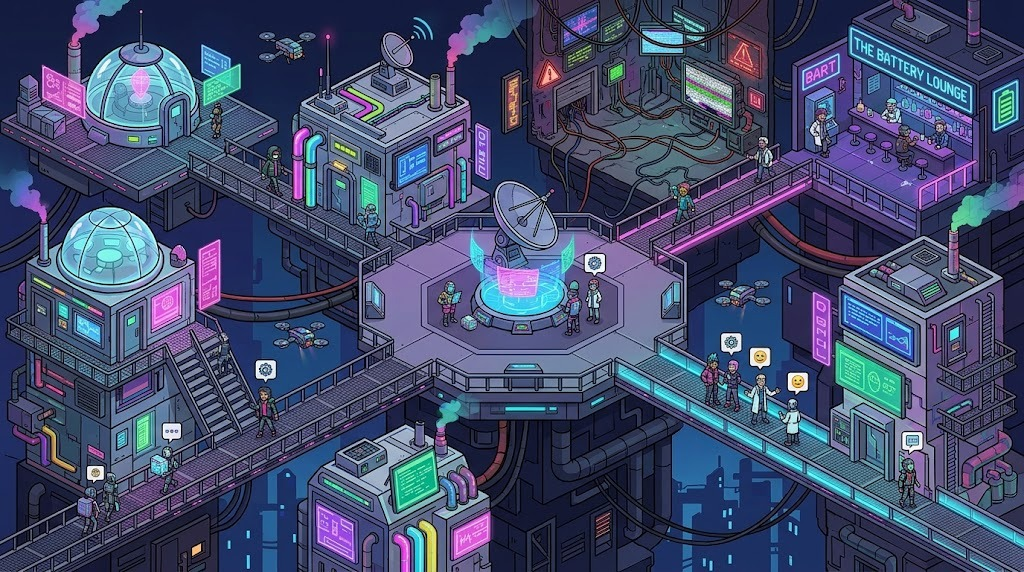
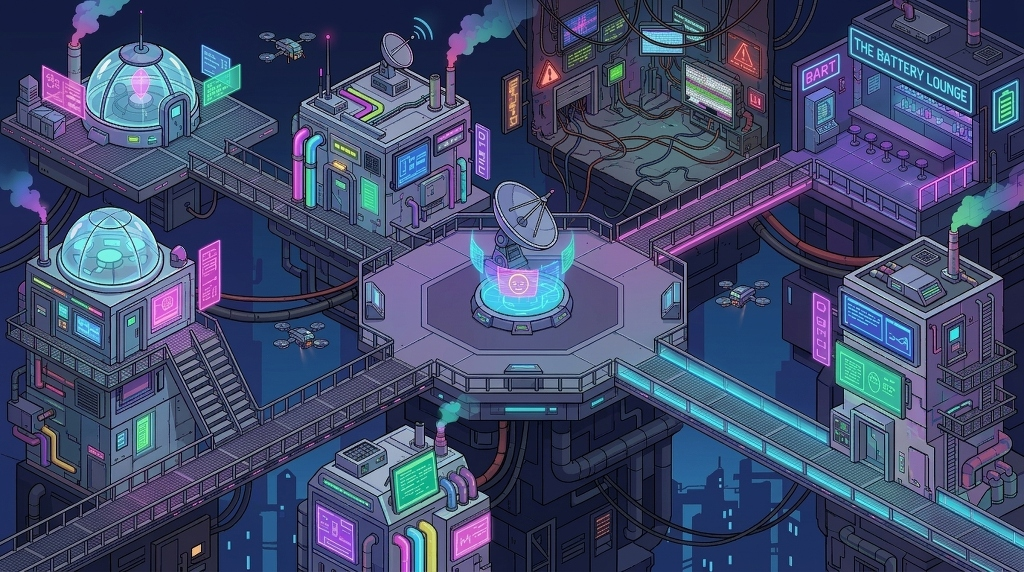
feat(agents): remover figuras estaticas da arte mestra e ativar populacao viva autonoma (T-4.6)

diff --git a/client/src/lib/game/agents/AgentManager.ts b/client/src/lib/game/agents/AgentManager.ts
@@ -4,25 +4,64 @@ import { DroneEntity } from './DroneEntity';
 import { ProceduralSpriteGenerator } from './spritesheetGenerator';
 import { GridPathfinder } from '../pathfinding';
 
+interface WaypointHub {
+  name: string;
+  x: number;
+  y: number;
+}
+
+const HUBS: WaypointHub[] = [
+  { name: 'The Nexus', x: 0, y: 0 },
+  { name: 'The Battery Lounge', x: -11, y: 0 },
+  { name: 'Pod Notex Core', x: 11, y: 0 },
+  { name: 'Glitch Alleys', x: 0, y: -10 },
+  { name: 'Expansion Bay', x: 0, y: 10 },
+  { name: 'Passarela Leste', x: 6, y: 0 },
+  { name: 'Passarela Oeste', x: -6, y: 0 },
+];
+
+const AMBIENT_PHRASES = [
+  '☕ Partiu tomar algo no Battery Lounge!',
+  '⚡ Bateria em 100%!',
+  '💻 Compilando kernel Rust assíncrono...',
+  '⚙ Pipeline CI/CD totalmente verde!',
+  '😊 Salve! O Grid está a todo vapor hoje!',
+  '📦 Entregando pacote de dados ao Nexus!',
+  '⚠ Monitorando anomalias na rede...',
+  '🍸 Experimentando o novo drink sintético!',
+  '🔍 Auditando contratos de execução...',
+  '🌐 Sincronizado com o Bridge Hub!',
+];
+
 /**
- * AgentManager: Orquestrador da população de agentes na metrópole.
- * Gerencia ciclo de vida, despacho, seleção e reações espaciais autônomas.
+ * AgentManager: Orquestrador da população viva de agentes na metrópole.
+ * Gerencia a deambulação autônoma, conversas reativas, transporte de dados
+ * e seleção no Modo Diretor.
  */
 export class AgentManager {
   private scene: Phaser.Scene;
+  private pathfinder!: GridPathfinder;
   private agents: Map<string, AgentEntity> = new Map();
   private selectedAgentId: string | null = null;
   private drone!: DroneEntity;
+  private ambientTimer = 0;
 
-  constructor(scene: Phaser.Scene) {
+  constructor(scene: Phaser.Scene, pathfinder?: GridPathfinder) {
     this.scene = scene;
+    if (pathfinder) {
+      this.pathfinder = pathfinder;
+    }
     ProceduralSpriteGenerator.ensureAgentTextures(scene);
-    this.spawnDefaultAgents();
+    this.spawnLivingPopulation();
     this.drone = new DroneEntity(scene, 4, 0);
   }
 
-  private spawnDefaultAgents() {
-    const defaultRoster: AgentData[] = [
+  public setPathfinder(pathfinder: GridPathfinder) {
+    this.pathfinder = pathfinder;
+  }
+
+  private spawnLivingPopulation() {
+    const populationRoster: AgentData[] = [
       {
         id: 'agent-codex-01',
         name: 'Rusty',
@@ -38,7 +77,7 @@ export class AgentManager {
         name: 'Dr. Cipher',
         role: 'RESEARCHER',
         homePodId: 'pod-notex',
-        cartX: -11,
+        cartX: -6,
         cartY: 0,
         status: 'IDLE',
         accentColor: '#9d00ff',
@@ -48,26 +87,63 @@ export class AgentManager {
         name: 'Unit-7',
         role: 'BOT_RUNNER',
         homePodId: 'pod-notex',
-        cartX: 10,
+        cartX: 8,
         cartY: 0,
-        status: 'WORKING',
+        status: 'IDLE',
         accentColor: '#39ff14',
+      },
+      {
+        id: 'agent-nova-03',
+        name: 'Nova',
+        role: 'DEVELOPER',
+        homePodId: 'pod-notex',
+        cartX: 0,
+        cartY: 7,
+        status: 'IDLE',
+        accentColor: '#ff9900',
+      },
+      {
+        id: 'agent-kaelen-04',
+        name: 'Kaelen',
+        role: 'RESEARCHER',
+        homePodId: 'pod-notex',
+        cartX: -11,
+        cartY: 0,
+        status: 'IDLE',
+        accentColor: '#ff007f',
+      },
+      {
+        id: 'agent-sec-05',
+        name: 'Vanguard',
+        role: 'SECURITY',
+        homePodId: 'pod-notex',
+        cartX: 0,
+        cartY: -8,
+        status: 'IDLE',
+        accentColor: '#ff3b30',
       },
     ];
 
-    for (const data of defaultRoster) {
+    for (const data of populationRoster) {
       const entity = new AgentEntity(this.scene, data);
+      entity.autonomousWandering = true;
       this.agents.set(data.id, entity);
+    }
+
+    // Configura Unit-7 para carregar um pacote de dados luminoso
+    const unit7 = this.agents.get('agent-bot-01');
+    if (unit7) {
+      unit7.isCarryingData = true;
     }
 
     // Seleciona Rusty inicialmente
     this.selectAgent('agent-codex-01');
 
-    // Fala inicial de boas-vindas
+    // Fala inicial de Rusty
     const rusty = this.agents.get('agent-codex-01');
     if (rusty) {
       this.scene.time.delayedCall(1200, () => {
-        rusty.say('The Core online. Pronto para despachar missões!');
+        rusty.say('The Core online. População de agentes ativa!');
       });
     }
   }
@@ -95,7 +171,7 @@ export class AgentManager {
   }
 
   /**
-   * Envia o agente selecionado (ou Rusty) para caminhar até o destino via pathfinding A*
+   * Envia o agente selecionado para caminhar até o destino via pathfinding A*
    */
   public async dispatchTo(cartX: number, cartY: number, pathfinder: GridPathfinder) {
     const agent = this.getSelectedAgent();
@@ -103,7 +179,7 @@ export class AgentManager {
 
     await agent.walkTo(cartX, cartY, pathfinder);
 
-    // Mensagens contextuais dependendo do distrito de destino
+    // Mensagens contextuais dependendo do distrito
     if (Math.hypot(cartX - (-12), cartY - 0) <= 2) {
       agent.say('Indo relaxar no Battery Lounge... 🍸');
     } else if (Math.hypot(cartX - 12, cartY - 0) <= 2) {
@@ -116,11 +192,44 @@ export class AgentManager {
   }
 
   public update(delta: number) {
+    // 1. Atualiza cada agente
     for (const agent of this.agents.values()) {
       agent.update(delta);
     }
+
+    // 2. Atualiza drone aéreo
     if (this.drone) {
       this.drone.update(delta);
+    }
+
+    // 3. Sistema de vida autônoma e deambulação ambiente
+    this.processAmbientLife(delta);
+  }
+
+  private processAmbientLife(delta: number) {
+    if (!this.pathfinder) return;
+
+    this.ambientTimer += delta;
+    if (this.ambientTimer > 5000) {
+      this.ambientTimer = 0;
+
+      // Escolhe um agente aleatório (que não esteja selecionado pelo jogador) para deambular
+      const agentList = Array.from(this.agents.values()).filter(
+        (a) => a.data.id !== this.selectedAgentId && a.status === 'IDLE'
+      );
+
+      if (agentList.length > 0) {
+        const luckyAgent = agentList[Phaser.Math.Between(0, agentList.length - 1)];
+        const randomHub = HUBS[Phaser.Math.Between(0, HUBS.length - 1)];
+
+        luckyAgent.walkTo(randomHub.x, randomHub.y, this.pathfinder);
+
+        // Ocasionalmente diz algo enquanto caminha
+        if (Math.random() > 0.5) {
+          const phrase = AMBIENT_PHRASES[Phaser.Math.Between(0, AMBIENT_PHRASES.length - 1)];
+          luckyAgent.say(phrase, 3500);
+        }
+      }
     }
   }
 

diff --git a/client/src/lib/game/agents/AgentEntity.ts b/client/src/lib/game/agents/AgentEntity.ts
@@ -35,11 +35,15 @@ export class AgentEntity {
   private sprite: Phaser.GameObjects.Sprite;
   private nameText: Phaser.GameObjects.Text;
   private selectionGraphics: Phaser.GameObjects.Graphics;
+  private packetGraphics: Phaser.GameObjects.Graphics;
   private bubbleContainer: Phaser.GameObjects.Container;
   private bubbleBg: Phaser.GameObjects.Graphics;
   private bubbleText: Phaser.GameObjects.Text;
 
   private isSelected = false;
+  public isCarryingData = false;
+  public autonomousWandering = false;
+  private wanderTimer = 0;
   private walkPath: CartesianPoint[] = [];
   private pathIndex = 0;
   private walkProgress = 0;
@@ -67,7 +71,10 @@ export class AgentEntity {
     // 2. Anel de Seleção Néon sob os pés
     this.selectionGraphics = scene.add.graphics();
 
-    // 3. Label de Nome Flutuante
+    // 3. Pacote de Dados Luminoso (Cubo de Dados)
+    this.packetGraphics = scene.add.graphics();
+
+    // 4. Label de Nome Flutuante
     this.nameText = scene.add.text(isoX, isoY - 38, this.data.name, {
       fontFamily: 'monospace',
       fontSize: '9px',
@@ -77,7 +84,7 @@ export class AgentEntity {
     });
     this.nameText.setOrigin(0.5);
 
-    // 4. Balão de Diálogo e Pensamento (T-4.4)
+    // 5. Balão de Diálogo e Pensamento (T-4.4)
     this.bubbleContainer = scene.add.container(isoX, isoY - 54);
     this.bubbleBg = scene.add.graphics();
     this.bubbleText = scene.add.text(0, 0, '', {
@@ -191,9 +198,27 @@ export class AgentEntity {
     if (this.isSelected) {
       this.renderSelectionRing();
     }
+    this.renderDataPacket(isoX, isoY);
 
     // 5. Z-Sorting dinâmico por tile
     this.updateZDepth();
+  }
+
+  private renderDataPacket(isoX: number, isoY: number) {
+    this.packetGraphics.clear();
+    if (!this.isCarryingData) return;
+
+    const offsetDir = this.direction === 'SE' ? 6 : this.direction === 'SW' ? -6 : 0;
+    const px = isoX + offsetDir;
+    const py = isoY - 14;
+
+    this.packetGraphics.fillStyle(0x00f0ff, 0.95);
+    this.packetGraphics.fillRect(px - 3, py - 3, 6, 6);
+    this.packetGraphics.lineStyle(1, 0xffffff, 0.9);
+    this.packetGraphics.strokeRect(px - 3, py - 3, 6, 6);
+
+    this.packetGraphics.fillStyle(0x00f0ff, 0.4);
+    this.packetGraphics.fillCircle(px, py, 6);
   }
 
   private processWalking(delta: number) {
@@ -267,6 +292,7 @@ export class AgentEntity {
     this.sprite.setDepth(depth);
     this.nameText.setDepth(depth + 2);
     this.selectionGraphics.setDepth(depth - 1);
+    this.packetGraphics.setDepth(depth + 3);
     this.bubbleContainer.setDepth(depth + 10);
   }
 
@@ -274,6 +300,7 @@ export class AgentEntity {
     this.sprite.destroy();
     this.nameText.destroy();
     this.selectionGraphics.destroy();
+    this.packetGraphics.destroy();
     this.bubbleContainer.destroy();
   }
 }

diff --git a/client/src/lib/game/agents/spritesheetGenerator.ts b/client/src/lib/game/agents/spritesheetGenerator.ts
@@ -39,6 +39,13 @@ export const ROLE_THEMES: Record<string, RoleTheme> = {
     accentColor: 0x39ff14,
     skinColor: 0x718096,  // Face sintética cinza
   },
+  SECURITY: {
+    bodyColor: 0x120a0a,  // Armadura tática escura
+    coatColor: 0x240d0d,
+    visorColor: 0xff3b30, // Visor vermelho de segurança
+    accentColor: 0xff3b30,
+    skinColor: 0xdfb49d,
+  },
 };
 
 /**
@@ -47,7 +54,7 @@ export const ROLE_THEMES: Record<string, RoleTheme> = {
  */
 export class ProceduralSpriteGenerator {
   public static ensureAgentTextures(scene: Phaser.Scene) {
-    const roles = ['DEVELOPER', 'RESEARCHER', 'DEVOPS', 'BOT_RUNNER'];
+    const roles = ['DEVELOPER', 'RESEARCHER', 'DEVOPS', 'BOT_RUNNER', 'SECURITY'];
     const directions: AgentDirection[] = ['SW', 'SE', 'NW', 'NE'];
     const frames = ['idle', 'walk_1', 'walk_2', 'work'];
 

diff --git a/client/src/lib/game/scenes/MainIsometricScene.ts b/client/src/lib/game/scenes/MainIsometricScene.ts
@@ -49,7 +49,7 @@ export class MainIsometricScene extends Phaser.Scene {
     this.livingOverlay = new LivingWorldOverlay(this);
 
     // 4. População de Agentes Autônomos e Drones Aéreos (Fase 4)
-    this.agentManager = new AgentManager(this);
+    this.agentManager = new AgentManager(this, this.pathfinder);
 
     // 5. Camadas gráficas de trajetórias e seleções
     this.pathGraphics = this.add.graphics();

diff --git a/scripts/take_screenshot.py b/scripts/take_screenshot.py
@@ -1,0 +1,18 @@
+import asyncio
+from playwright.async_api import async_playwright
+
+async def main():
+    async with async_playwright() as p:
+        browser = await p.chromium.launch(headless=True)
+        page = await browser.new_page(viewport={"width": 1440, "height": 900})
+        print("Navigating to http://127.0.0.1:5173/...")
+        await page.goto("http://127.0.0.1:5173/", wait_until="networkidle")
+        # Wait a few seconds for Phaser canvas to load and agents to move
+        await asyncio.sleep(4)
+        output_path = r"C:\Users\Lav\.gemini\antigravity\brain\14580eb8-accb-470e-a9cf-2879d405ccdd\the_grid_metropolis.png"
+        await page.screenshot(path=output_path)
+        print(f"Screenshot saved to {output_path}")
+        await browser.close()
+
+if __name__ == "__main__":
+    asyncio.run(main())

diff --git a/ROADMAP.md b/ROADMAP.md
@@ -67,6 +67,7 @@ flowchart TD
 | **T-4.3** | Navegação Espacial de Agentes pelas Passarelas | **Done** ✅ | Alta | T-4.2, T-2.3 | Vincular máquina de estados ao pathfinding para caminhar suavemente até destinos com animação direcional. |
 | **T-4.4** | Sistema de Balões de Diálogo e Ícones Flutuantes | **Done** ✅ | Alta | T-4.2 | Renderizar balões sincronizados com ícones (engrenagens, lâmpadas, códigos) sobre a cabeça dos agentes. |
 | **T-4.5** | Drones Aéreos de Mensageria | **Done** ✅ | Média | T-4.1, T-3.1 | Implementar drones autônomos para transporte aéreo de pacotes de dados entre prédios distantes. |
+| **T-4.6** | Remoção de Figuras Estáticas e População Viva Autônoma | **Done** ✅ | Alta | T-4.1, T-4.3, T-3.7 | Limpar as figuras estáticas ilustradas na arte mestra através de inpainting com OpenCV, liberando as passarelas e plataformas, e implementar rotinas autônomas de deambulação e socialização para agentes e NPCs transeuntes vivos com animação direcional e balões dinâmicos. |
 
 ---
 
